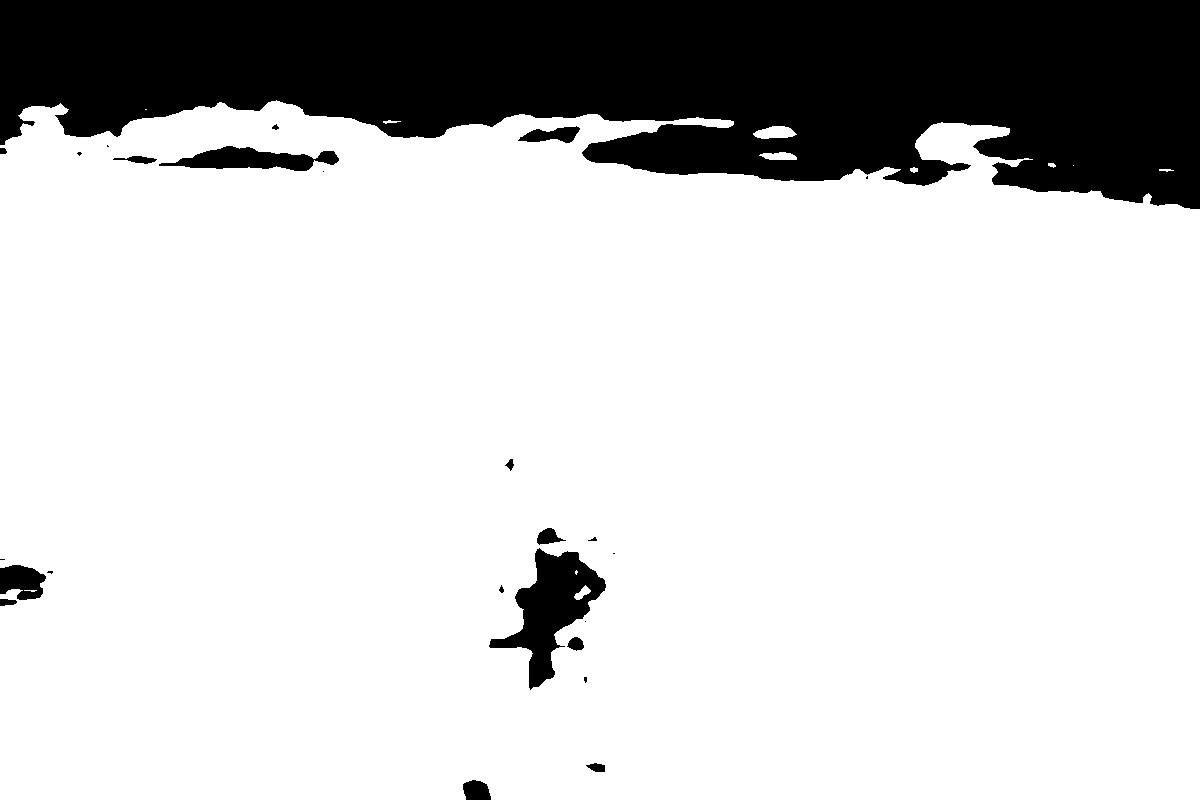
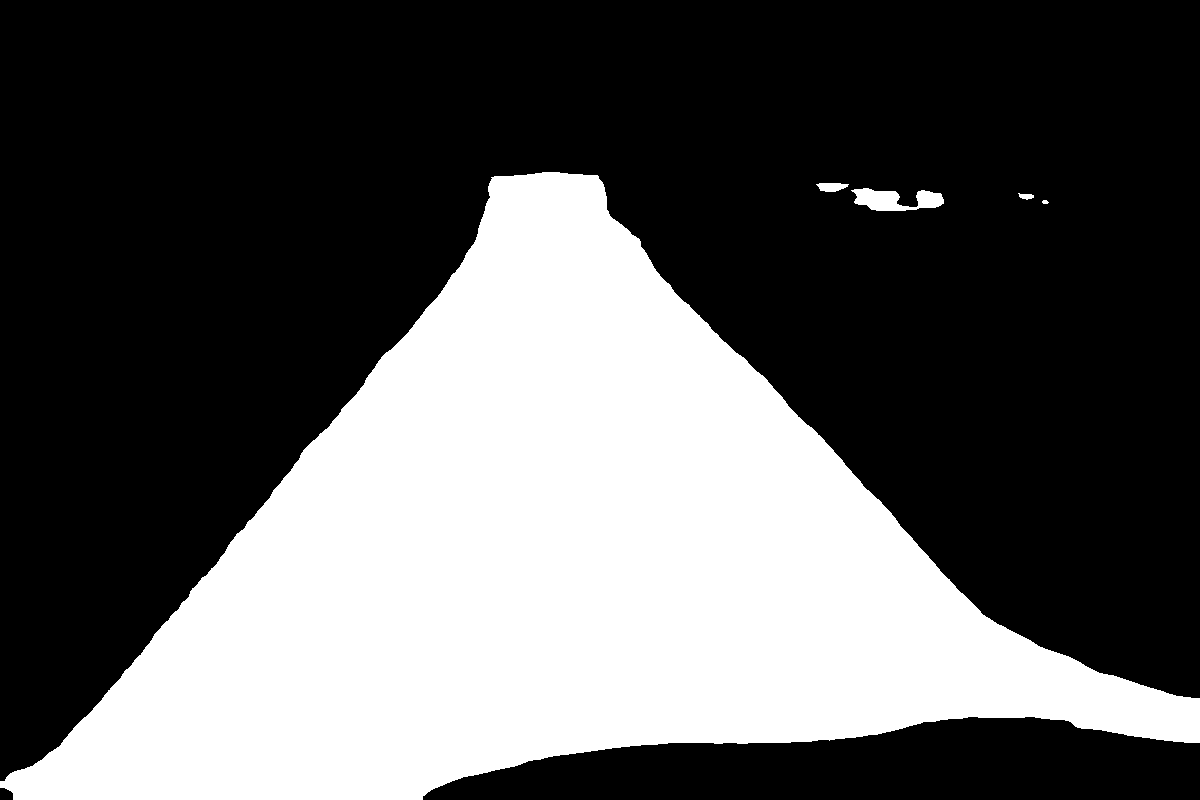
runway_deataction_mask

diff --git a/main.py b/main.py
@@ -1,5 +1,5 @@
 """
-Semantic Segmentation Script for Runway Detection (Debug Mode)
+Semantic Segmentation Script for Runway Detection (FIXED)
 """
 
 import numpy as np
@@ -10,12 +10,10 @@ import torch
 import random
 
 def load_model(device='cpu'):
-    # START CHANGE: Switching to Cityscapes (Dashcam View)
-    # This model understands roads that vanish into the distance (perspective).
-    model_name = "nvidia/segformer-b0-finetuned-cityscapes-1024-1024"
-    # END CHANGE
+    # Using ADE20K model (Better for runways)
+    model_name = "nvidia/segformer-b4-finetuned-ade-512-512"
     
-    print(f"Loading Driver-View Model: {model_name}")
+    print(f"Loading ADE20K Model: {model_name}")
     
     try:
         processor = SegformerImageProcessor.from_pretrained(model_name)
@@ -34,33 +32,23 @@ def load_model(device='cpu'):
         device = 'cpu'
     
     return processor, model, device
+
+
 def create_debug_overlay(seg_map, original_image_cv, id2label):
-    """
-    Creates a color-coded overlay to visualize what the model sees.
-    """
     h, w, _ = original_image_cv.shape
     color_mask = np.zeros((h, w, 3), dtype=np.uint8)
-    
     unique_classes = np.unique(seg_map)
     
-    # Generate random colors for each class found
-    np.random.seed(42)
+    np.random.seed(42) # Consistent colors
     
     print("\n--- DETAILED DEBUG LOG ---")
     for cls_id in unique_classes:
-        # Get label name (handle cases where config might be missing)
         label_name = id2label.get(cls_id, f"Unknown_ID_{cls_id}")
-        
-        # Assign a random bright color
         color = np.random.randint(0, 255, size=3).tolist()
-        
-        # Color the mask where this class is detected
         color_mask[seg_map == cls_id] = color
-        
         print(f"ID {cls_id}: '{label_name}' -> Colored RGB{color}")
     print("--------------------------\n")
 
-    # Blend original image with the colored mask
     overlay = cv2.addWeighted(original_image_cv, 0.6, color_mask, 0.4, 0)
     return overlay
 
@@ -84,35 +72,40 @@ def get_runway_mask(image_path, device='cpu'):
     
     seg_map = upsampled_logits.argmax(dim=1).squeeze().cpu().numpy()
 
-    # --- CITYSCAPES CLASS MAPPING ---
-    # 0: Road (This is your Runway!)
-    # 1: Sidewalk
-    # 2: Building
-    # 8: Vegetation
-    # 10: Sky
-    # --------------------------------
+    # --- ADE20K TARGETS ---
+    # 6: Road
+    # 52: Runway
+    TARGET_IDS = [6, 54] 
     
-    TARGET_CLASS_ID = 0  # In Cityscapes, Road is ALWAYS 0
+    # --- FIX START ---
+    # We use np.isin() to check against multiple IDs at once
+    mask_bool = np.isin(seg_map, TARGET_IDS)
+    binary_mask = (mask_bool * 255).astype(np.uint8)
+    # --- FIX END ---
     
-    binary_mask = np.zeros_like(seg_map, dtype=np.uint8)
-    binary_mask[seg_map == TARGET_CLASS_ID] = 255
-    
-    # Save the debug overlay again to verify
-    # (Ensure you pasted the 'create_debug_overlay' function from before)
+    # Save debug overlay
     open_cv_image = cv2.cvtColor(np.array(image), cv2.COLOR_RGB2BGR)
-    overlay_img = create_debug_overlay(seg_map, open_cv_image, model.config.id2label)
-    cv2.imwrite("debug_overlay_cityscapes.jpg", overlay_img)
+    # Get id2label mapping safely
+    id2label = getattr(model.config, 'id2label', {})
+    if not id2label:
+        # Fallback: create a simple mapping
+        id2label = {i: f"Class_{i}" for i in range(150)}
+    overlay_img = create_debug_overlay(seg_map, open_cv_image, id2label)
+    cv2.imwrite("debug_overlay_ade20k.jpg", overlay_img)
 
     print(f"Success! Detected {np.sum(binary_mask > 0)} runway pixels.")
     return binary_mask
 
 if __name__ == "__main__":
-    mask = get_runway_mask("runway01.jpg")
-    cv2.imwrite("final_mask.png", mask)
-    
-    if np.sum(mask) == 0:
-        print("\nWARNING: The final mask is empty (All Black).")
-        print("Look at 'debug_overlay.jpg' to see what class ID the runway actually is,")
-        print("then add that ID to the 'TARGET_CLASSES' list in the code.")
-    else:
-        print("Success! Mask saved.")
+    # Ensure this file exists or change the name
+    try:
+        mask = get_runway_mask("runway01.jpg")
+        cv2.imwrite("final_mask.png", mask)
+        
+        if np.sum(mask) == 0:
+            print("\nWARNING: Mask is empty.")
+            print("Check debug_overlay_ade20k.jpg to see which ID the model is choosing.")
+        else:
+            print("Success! Mask saved as 'final_mask.png'.")
+    except Exception as e:
+        print(f"Error: {e}")

diff --git a/runway_segmentation.py b/runway_segmentation.py
@@ -81,6 +81,18 @@ def get_runway_mask(image_path, device='cpu'):
     ROAD_CLASS_ID = 0
     SIDEWALK_CLASS_ID = 1
     
+
+    # We want to treat Road (0), Sidewalk (1), and Traffic Signs (7) all as "Runway Surface"
+    # to avoid holes where the painted numbers are.
+    TARGET_CLASSES = [0, 1, 7] 
+    
+    binary_mask = np.zeros_like(seg_map, dtype=np.uint8)
+    for class_id in TARGET_CLASSES:
+        binary_mask[seg_map == class_id] = 255
+    
+    # FILL HOLES: Use morphological closing to fill in the small gaps (like the "car" misdetection)
+    kernel = np.ones((7,7), np.uint8)
+    binary_mask = cv2.morphologyEx(binary_mask, cv2.MORPH_CLOSE, kernel)
     # Create binary mask: Runway = 255 (White), everything else = 0 (Black)
     # Get predicted class for each pixel
     seg_map = upsampled_logits.argmax(dim=1).squeeze().cpu().numpy()
@@ -90,7 +102,7 @@ def get_runway_mask(image_path, device='cpu'):
     print(f"DEBUG: Unique classes detected in image: {unique_classes}")
     binary_mask = np.zeros_like(seg_map, dtype=np.uint8)
     binary_mask[seg_map == ROAD_CLASS_ID] = 255
-    binary_mask[seg_map == SIDEWALK_CLASS_ID] = 255
+    binary_mask[seg_map == SIDEWALK_CLASS_ID] = 100
     
     print(f"Detected classes: {np.unique(seg_map)}")
     print(f"Binary mask created: {binary_mask.shape}")
